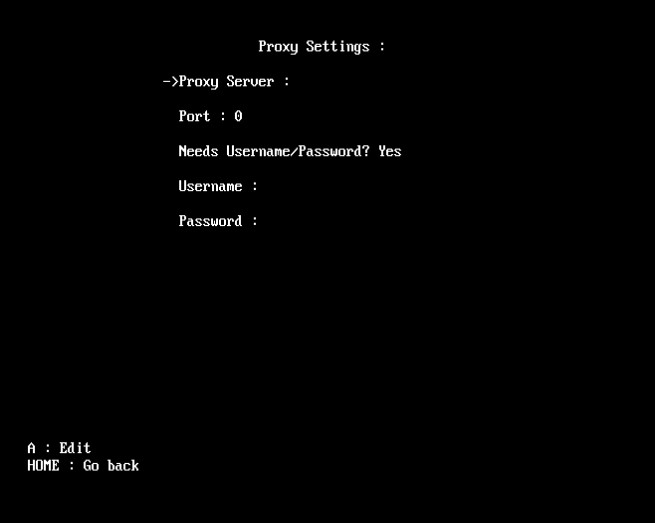
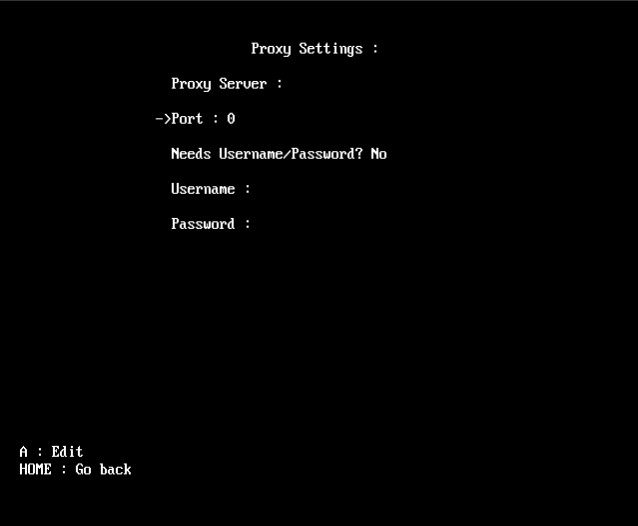
Add Edit section.

diff --git a/guides/WNPV.html b/guides/WNPV.html
@@ -13,7 +13,7 @@
       <h1 class="logo">Abdelali's<span> Junkyard</span></h1>
     </div>
   </section>
-  <section id="Description">
+  <section class="header" id="Description">
     <h1>WNPV</h1>
     <h2>What is it?</h2>
     <p>WNPV stands for Wii Network Profiles Viewer, it's a homebrew app that allows you to see & edit your Wii's network <br> 
@@ -22,32 +22,64 @@
       doesn't take more than half a megabyte in your storage device.</p>
   </section>
   
-  <section id="Start&Reading">
+  <section class="header" id="Start&Reading">
     <h2>Section 1 : Reading the Profiles infos</h2>
-    <p>Upon starting the app, you'll get greeted with this screen :<br><br>
-    <img src="startscreen.jpg">
-    <br><br>Press PLUS to proceed. After that you'll see the path & size of the config file.<br>
-    <br>You should now see something like this :<br><br>
-    <img src="profile.jpg">
+    <p>Upon starting the app, you'll get greeted with this screen :
+    <br><br><img src="startscreen.jpg">
+    <br><br>Press PLUS to proceed. After that you'll see the path & size of the config file.
+    <br><br>You should now see something like this :
+    <br><br><img src="profile.jpg">
     <br><br>This shows all the profile infos, you can press left or right on the D-PAD
     <br>to switch between the different profiles.
     </p>
   </section>
 
-  <section id="Editing">
+  <section class="header" id="Editing">
+
     <h2>Section 3 : Editing Profiles</h2>
-    <p>Before editing, select the desired profile, then press TWO to enter edit mode:<br><br>
-    <img src="editprofile0.jpg">
-    <br><br>You will see like above an arrow pointing to the first setting,<br>
-    <br>you can press A to toggle it:<br><br>
-    <img src="editprofile1.jpg">
+    <p>Before editing, select the desired profile, then press TWO to enter edit mode :
+    <br><br><img src="editprofile0.jpg">
+    <br><br>You will see like above an arrow pointing to the first setting,
+    <br>you can press A to toggle it :
+    <br><br><img src="editprofile1.jpg">
     <br><br>Some options have a <img src="plusarrow.jpg"> before them, 
     <br>that means that there's a submenu for those options.
-    <br><br>Let's start with the Proxy submenu.
+    <br><br>Submenus can contain three types of settings; Numerical, String or
+    <br>Address.
     </p>
-    <h3>Section 3.1 : Editing the Proxy</h3>
-    <p><img src="proxy0.jpg">
-    <br><br>There are 2 types of settings; Strings & numerical values.
+
+    <section id="Editing-Num">
+      <h3>Section 3.1 : Editing A Numerical Setting</h3>
+      <p>Let's start by editing the Proxy port :
+      <br><br><img src="proxy0.jpg">
+      <br><br>If you press A, a Numpad will show up on the screen :
+      <br><br><img src="proxy1.jpg">
+      <br><br>By aiming at it with the Wii Remote, you can write a numerical value
+      <br>(In this case it's the Port, which has to be between 0 & 34463).
+    </section>
+
+    <section id="Editing-Str">
+      <h3>Section 3.2 : Editing A String-type Setting</h3>
+      <p>We'll select the Proxy Server setting :
+      <br><br><img src="proxy2.jpg">
+      <br><br>If you press A, a keyboard will show up on the screen :
+      <br><br><img src="proxy3.jpg">
+      <br><br>By aiming at it with the Wii Remote, you can write a string
+      <br>(In this case it's the Proxy Server).
+    </section>
+
+    <section id="Editing-Addr">
+      <h3>Section 3.3 : Editing An Address-type Setting</h3>
+      <p>When opening the IP or DNS submenu you get something like this :
+      <br><br><img src="DNS0.jpg">
+      <br><br>If you press A on any of the options, a Numpad will show up on the screen :
+      <br><br><img src="DNS1.jpg">
+      <br><br>Similarly to the Numerical setting, you aim at the Numpad to write,
+      <br>but each option has four values to configure.
+      <br>When you're done changing the first value, you move to the next by pressing on the
+      <br>dot character (The app automatically does that if the next digit makes it bigger than 255).
+    </section>
+
     </p>
   </section>
 

diff --git a/guides/style.css b/guides/style.css
@@ -28,7 +28,7 @@
     background: #111;
     border-bottom: 2px solid #d97700;
     padding: 1rem 0;
-    position: sticky;
+    position: static;
     top: 0;
     z-index: 100;
   }
